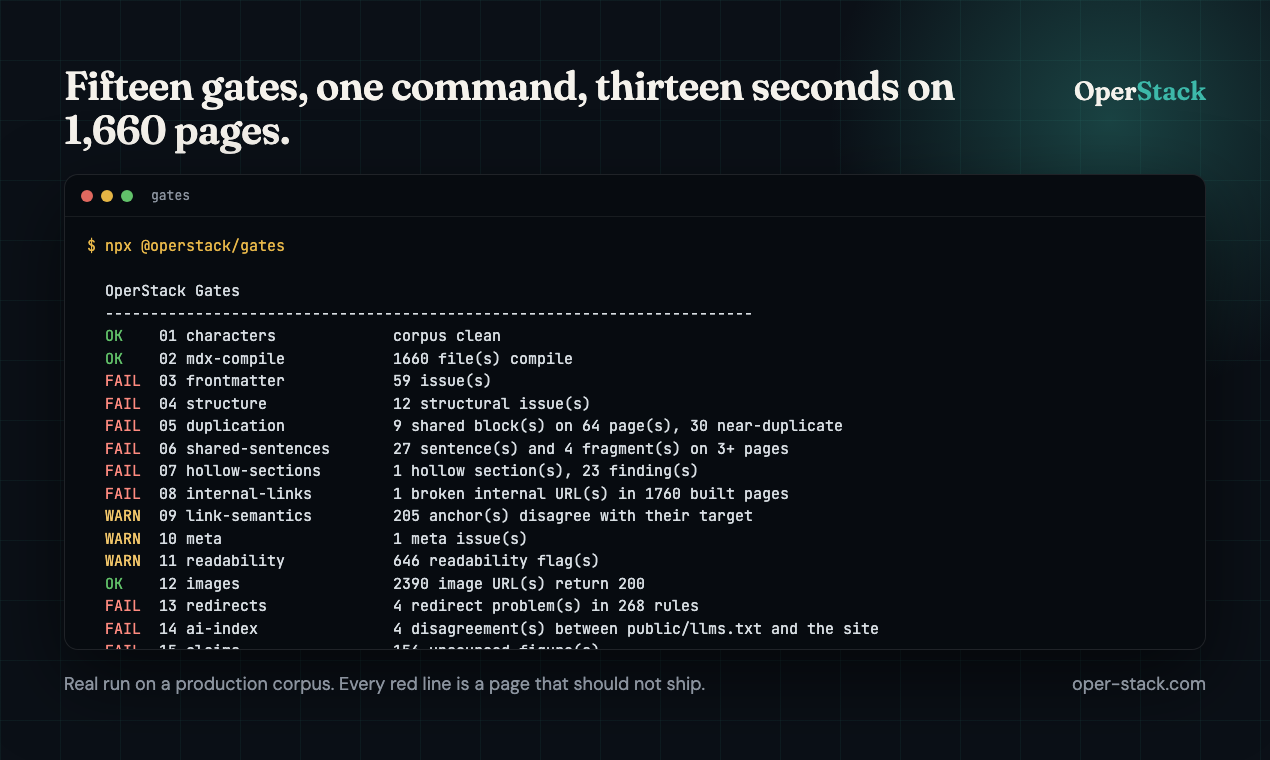
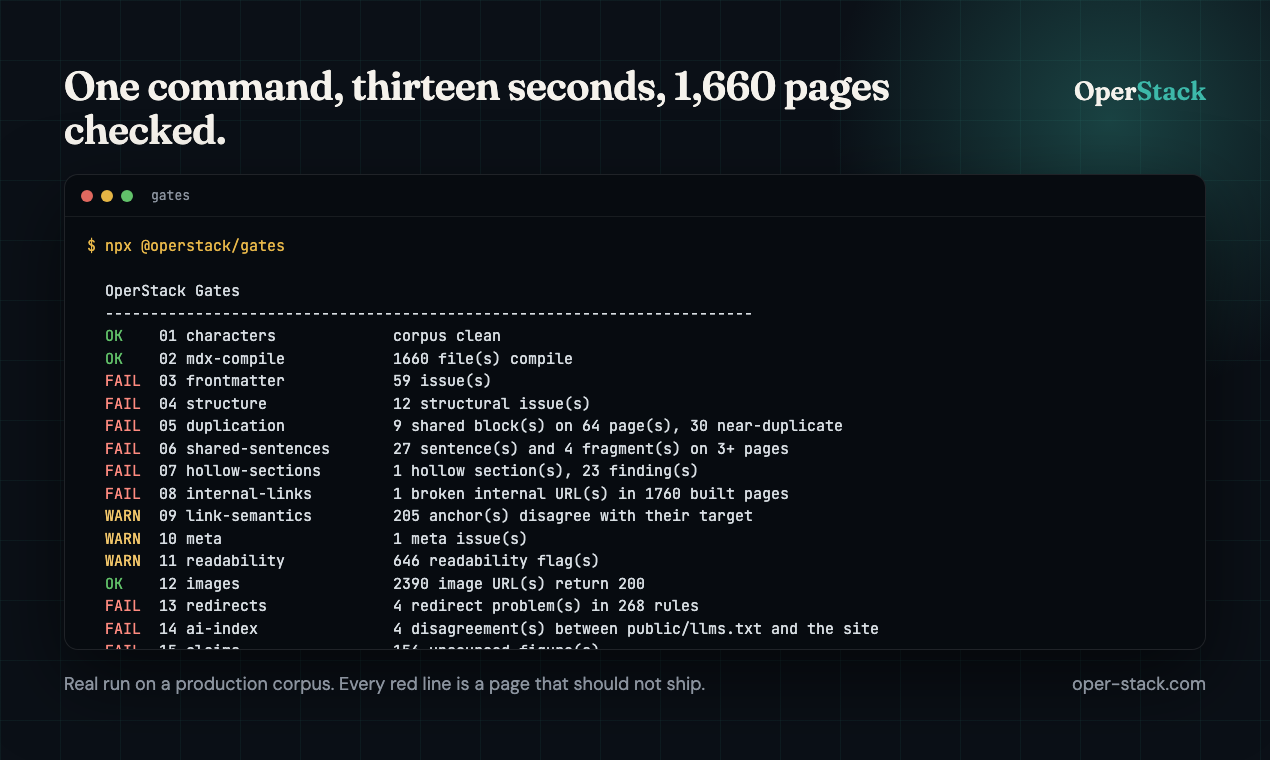
feat(картинки): русская карточка аудита и новый текст английской
Русская карточка существовала только готовым PNG, её HTML не лежал нигде, и
поменять текст было нельзя. Шаблон написан заново на Playfair Display и Inter:
у Fraunces и DM Sans нет кириллицы.

Английская карточка получила текст под новый смысл товара: сто страниц, пять
конкурентов рядом и три готовых файла вместо прежнего «шесть областей и план по
неделям».

Changed region(s): [[0.0307, 0.0908, 0.7677, 0.2118]]

diff --git a/og-seo-audit.ru.html b/og-seo-audit.ru.html
@@ -1,0 +1,37 @@
+<!doctype html><html lang="ru"><head><meta charset="utf-8">
+<!--
+  Русская карточка аудита. Шаблона у неё не было на диске: до 18.09.2026 существовал только
+  готовый PNG, и поменять в нём текст было нельзя. Отличия от английской ровно два: шрифты с
+  кириллицей (Fraunces и DM Sans её не знают) и плашка с ценой, как на прежней карточке.
+-->
+<link rel="stylesheet" href="https://fonts.googleapis.com/css2?family=Playfair+Display:wght@700&family=Inter:wght@400;500;600&display=swap">
+<style>
+  html, body { margin: 0; width: 1200px; height: 630px; overflow: hidden; }
+  body { background: #0B1017; color: #F5F2EC; font-family: Inter, system-ui, sans-serif; position: relative; }
+  .grid { position: absolute; inset: 0; background-image: linear-gradient(rgba(61,184,169,.08) 1px, transparent 1px), linear-gradient(90deg, rgba(61,184,169,.08) 1px, transparent 1px); background-size: 60px 60px; }
+  .glow { position: absolute; right: -120px; top: -160px; width: 620px; height: 620px; border-radius: 50%; background: radial-gradient(circle, rgba(61,184,169,.35), transparent 62%); }
+  .wrap { position: absolute; left: 80px; top: 72px; right: 80px; bottom: 72px; display: flex; flex-direction: column; justify-content: space-between; }
+  .brand { display: flex; align-items: center; gap: 22px; }
+  .mark { width: 64px; height: 64px; border-radius: 14px; background: #F5F2EC; position: relative; }
+  .mark i { position: absolute; left: 16px; height: 5px; border-radius: 3px; background: #1A8A7D; }
+  .mark i:nth-child(1) { top: 42px; width: 32px; } .mark i:nth-child(2) { top: 30px; width: 24px; left: 20px; } .mark i:nth-child(3) { top: 18px; width: 16px; left: 24px; }
+  .mark b { position: absolute; right: 12px; top: 16px; width: 8px; height: 8px; border-radius: 50%; background: #C9922A; }
+  .name { font-family: "Playfair Display", Georgia, serif; font-size: 40px; font-weight: 700; letter-spacing: -.5px; }
+  .name span { color: #3DB8A9; }
+  .price { display: inline-block; background: #E8B84A; color: #18202B; font-size: 26px; font-weight: 600; padding: 10px 24px; border-radius: 999px; letter-spacing: .01em; }
+  h1 { font-family: "Playfair Display", Georgia, serif; font-size: 62px; line-height: 1.08; font-weight: 700; margin: 20px 0 0; max-width: 980px; letter-spacing: -.5px; }
+  p { font-size: 26px; color: #B8C0C8; margin: 20px 0 0; max-width: 900px; line-height: 1.35; }
+  .foot { display: flex; justify-content: space-between; font-size: 22px; color: #8B939E; letter-spacing: .04em; }
+  .foot code { font-family: "JetBrains Mono", Menlo, monospace; color: #E8B84A; }
+</style></head><body>
+<div class="grid"></div><div class="glow"></div>
+<div class="wrap">
+  <div class="brand"><div class="mark"><i></i><i></i><i></i><b></b></div><div class="name">Oper<span>Stack</span></div></div>
+  <div>
+    <span class="price">12 500 ₽</span>
+    <h1>Почему вас не показывают в ИИ и в поиске</h1>
+    <p>Сто страниц вашего сайта, пять конкурентов рядом и три готовых файла. Отчёт приходит за несколько минут.</p>
+  </div>
+  <div class="foot"><span>oper-stack.ru</span><code>oper-stack.ru/produkty/seo-audit</code></div>
+</div>
+</body></html>

diff --git a/og-agency.html b/og-agency.html
@@ -21,7 +21,7 @@
 <div class="grid"></div><div class="glow"></div>
 <div class="wrap">
   <div class="brand"><div class="mark"><i></i><i></i><i></i><b></b></div><div class="name">Oper<span>Stack</span></div></div>
-  <div><h1>Why nobody shows you, and what to put on the site so they do.</h1><p>A hundred pages read, five rivals beside you, and three finished files you only have to put on the site.</p></div>
-  <div class="foot"><span>oper-stack.com</span><code>oper-stack.com/products/seo-audit</code></div>
+  <div><h1>The report goes out with your name on it.</h1><p>Run the audit on as many client sites as you like and hand each client a PDF carrying your logo, your colour and your name. 39 a month, cancel any time, no fee per report.</p></div>
+  <div class="foot"><span>oper-stack.com</span><code>oper-stack.com/products/agency</code></div>
 </div>
 </body></html>

diff --git a/product-hunt/ph-1-table.html b/product-hunt/ph-1-table.html
@@ -18,7 +18,7 @@
   .foot { font-size: 18px; color: #8B939E; display: flex; justify-content: space-between; }
 </style></head><body><div class="grid"></div><div class="glow"></div>
 <div class="wrap">
-  <div class="head"><h1>Fifteen gates, one command, thirteen seconds on 1,660 pages.</h1><div class="brand">Oper<span>Stack</span></div></div>
+  <div class="head"><h1>One command, thirteen seconds, 1,660 pages checked.</h1><div class="brand">Oper<span>Stack</span></div></div>
   <div class="term"><div class="bar"><i></i><i></i><i></i><span>gates</span></div><pre><span class="cmd">$ npx @operstack/gates</span>
 
   OperStack Gates
